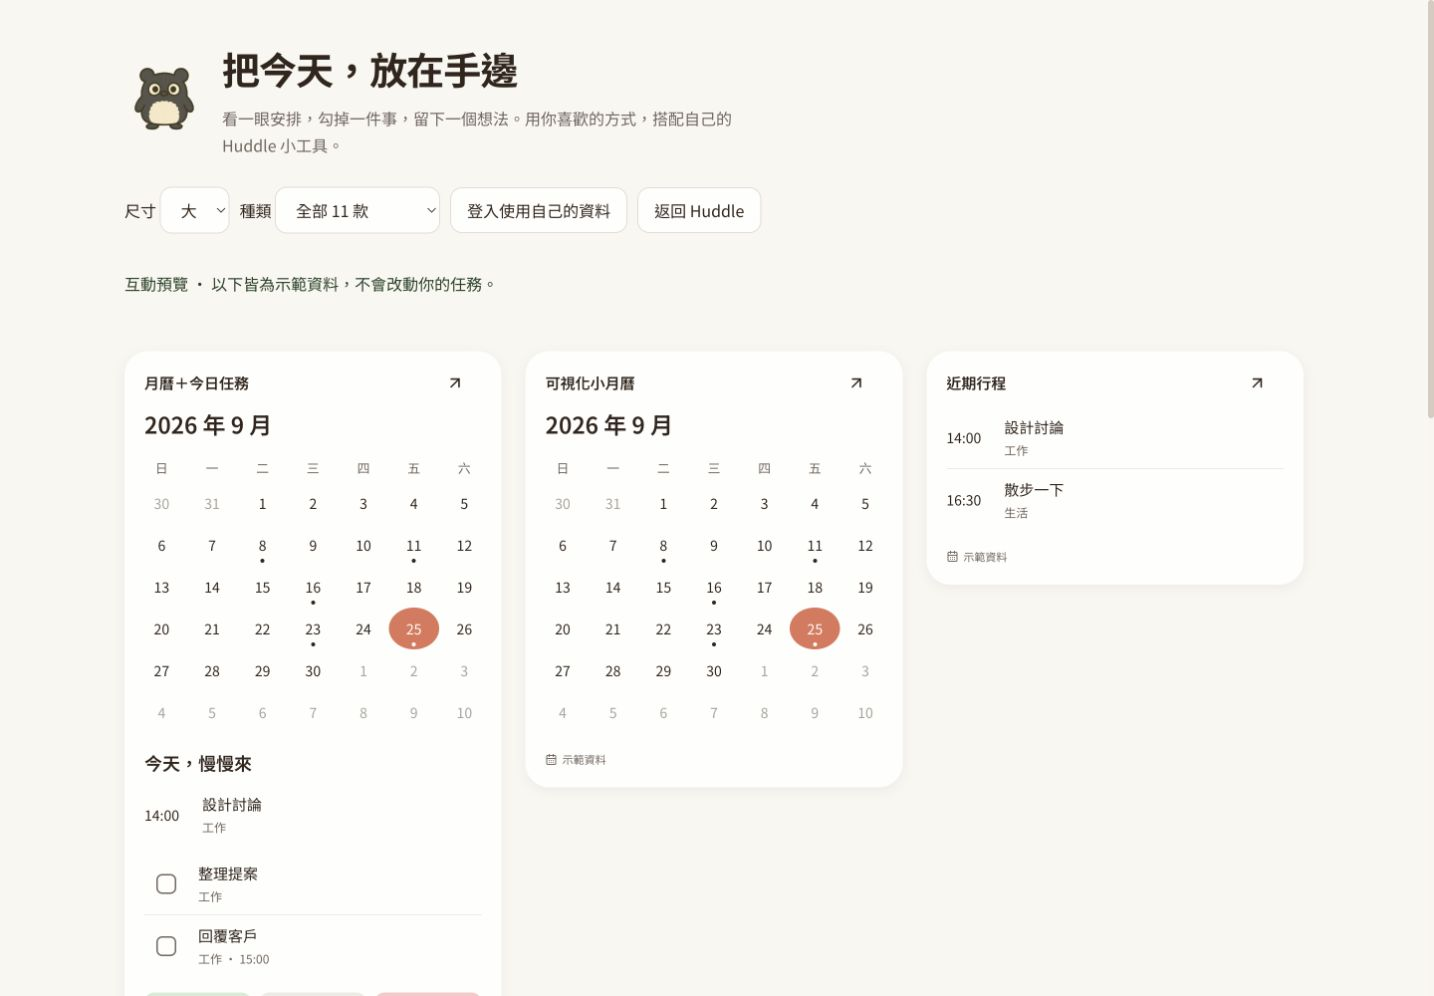
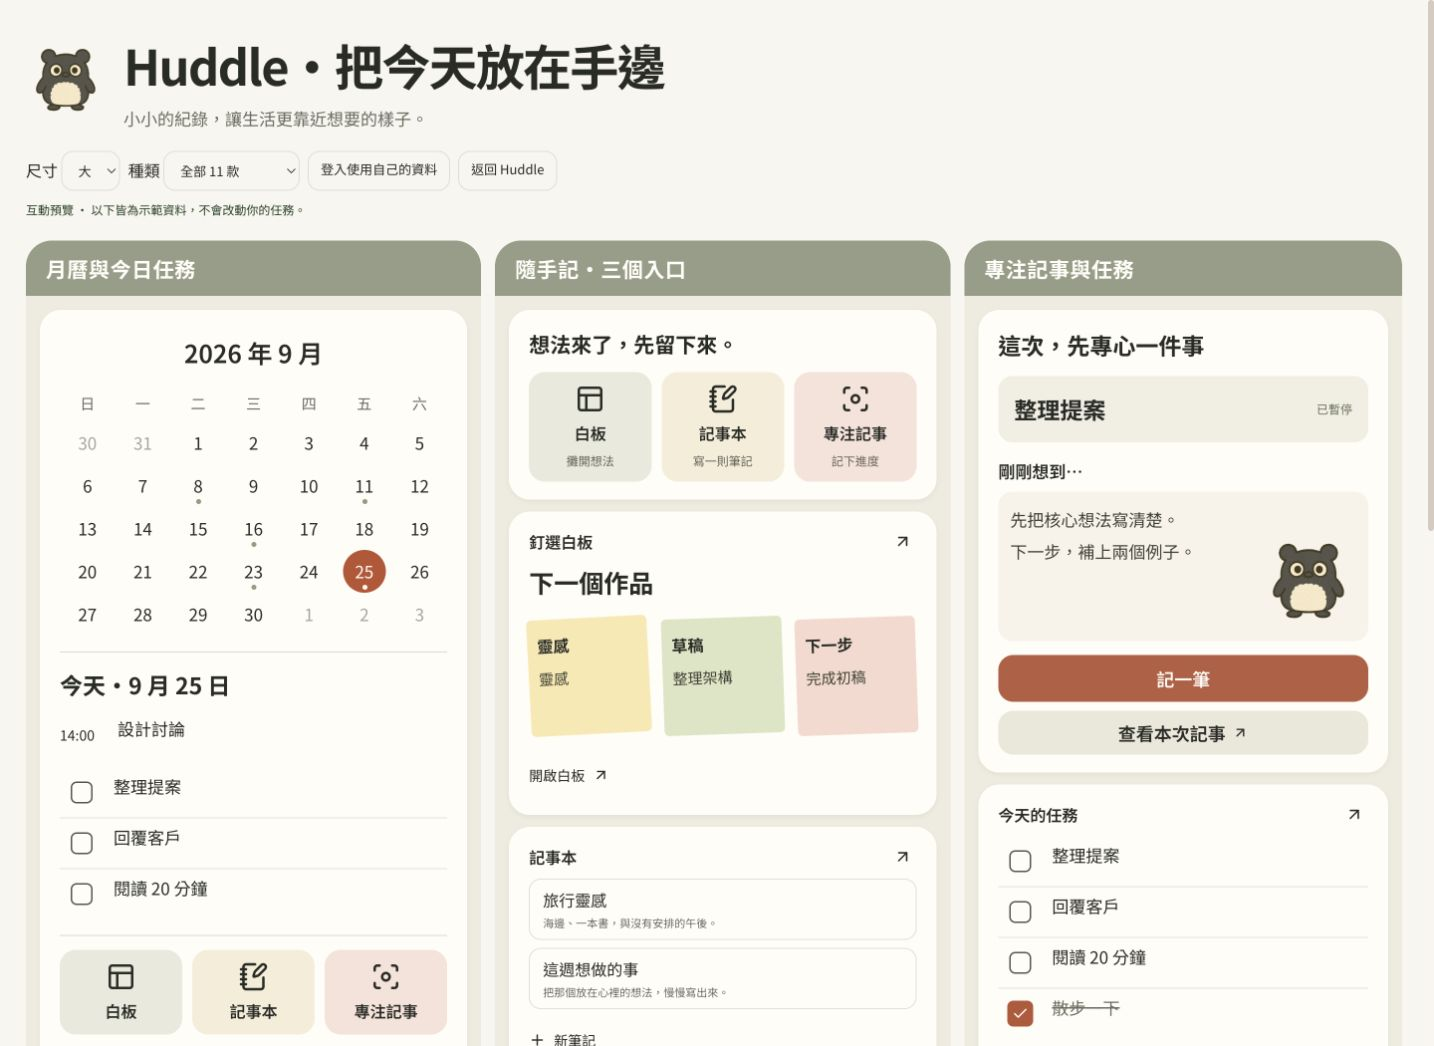
fix(widgets): restore approved grouped composition and paper details

diff --git a/components/widgets/widget-card.tsx b/components/widgets/widget-card.tsx
@@ -7,22 +7,22 @@ import styles from './widgets.module.css'
 export interface WidgetCardProps {kind:WidgetKind;data:WidgetSnapshot;size:'small'|'medium'|'large';onOpen:(kind:WidgetKind,id?:string,date?:string)=>void;onComplete:(id:string)=>void;onAction:(action:string)=>void}
 export function WidgetCard({kind,data,size,onOpen,onComplete,onAction}:WidgetCardProps) {
   const limit=size==='small'?2:size==='medium'?3:5
-  const shortcuts=<div className={styles.shortcuts}>{([{kind:'whiteboard',Icon:PanelsTopLeft},{kind:'notebook',Icon:NotebookPen},{kind:'focus-note',Icon:Focus}] as const).map(({kind:k,Icon})=><button key={k} onClick={()=>onOpen(k)}><Icon size={21}/><span>{widgetNames[k]}</span></button>)}</div>
+  const shortcuts=<div className={styles.shortcuts}>{([{kind:'whiteboard',Icon:PanelsTopLeft},{kind:'notebook',Icon:NotebookPen},{kind:'focus-note',Icon:Focus}] as const).map(({kind:k,Icon})=><button key={k} onClick={()=>onOpen(k)}><Icon size={30}/><span>{widgetNames[k]}</span>{kind==='shortcuts'&&<small>{k==='whiteboard'?'攤開想法':k==='notebook'?'寫一則筆記':'記下進度'}</small>}</button>)}</div>
   const rows=(items:WidgetItem[],tasks=false)=> <div className={styles.rows}>{items.length?items.slice(0,limit).map(item=><div className={styles.row} key={`${item.id}-${item.date}`}>
     {tasks?<button className={styles.check} aria-label={`${item.completed?'取消完成':'完成'} ${item.title}`} aria-pressed={!!item.completed} onClick={()=>item.actionable?onComplete(item.id):onOpen('tasks',item.id)}>{item.completed?<Check size={17}/>:<span/>}</button>:item.time?<time>{item.time}</time>:null}
     <button className={styles.rowText} onClick={()=>onOpen(kind,item.id,item.date)}><span className={item.completed?styles.done:''}>{item.title}</span><small>{item.subtitle}</small></button>
   </div>):<p className={styles.empty}>這裡還有空間，慢慢安排。</p>}</div>
-  const calendar=<><div className={styles.monthTitle}>{Number(data.today.slice(0,4))} 年 {Number(data.today.slice(5,7))} 月</div><div className={styles.calendar}>{['日','一','二','三','四','五','六'].map(d=><small key={d}>{d}</small>)}{data.days.map(day=><button key={day.date} className={`${day.inMonth?'':styles.outside} ${day.date===data.today?styles.today:''}`} aria-label={`${day.date}，${day.count} 個安排`} onClick={()=>onOpen('calendar',undefined,day.date)}><span>{day.day}</span>{day.count>0&&<i/>}</button>)}</div></>
+  const calendar=<><div className={styles.monthTitle}>{Number(data.today.slice(0,4))} 年 {Number(data.today.slice(5,7))} 月</div><div className={styles.calendar}>{['日','一','二','三','四','五','六'].map(d=><small key={d}>{d}</small>)}{data.days.slice(0, data.days.slice(35).some(d=>d.inMonth)?42:35).map(day=><button key={day.date} className={`${day.inMonth?'':styles.outside} ${day.date===data.today?styles.today:''}`} aria-label={`${day.date}，${day.count} 個安排`} onClick={()=>onOpen('calendar',undefined,day.date)}><span>{day.day}</span>{day.count>0&&<i/>}</button>)}</div></>
   return <article className={`${styles.widget} ${styles[size]}`} data-widget={kind}>
-    <header><h2>{widgetNames[kind]}</h2><button aria-label={`開啟${widgetNames[kind]}`} onClick={()=>onOpen(kind)}><ArrowUpRight size={19}/></button></header>
+    <header><h2>{kind==='whiteboard'?'釘選白板':kind==='tasks'?'今天的任務':widgetNames[kind]}</h2><button aria-label={`開啟${widgetNames[kind]}`} onClick={()=>onOpen(kind)}><ArrowUpRight size={19}/></button></header>
     {(kind==='calendar'||kind==='overview')&&calendar}
-    {kind==='overview'&&<><h3>今天，慢慢來</h3>{rows(data.agenda.slice(0,1))}{rows(data.tasks.slice(0,2),true)}{size!=='small'&&shortcuts}</>}
+    {kind==='overview'&&<><h3 className={styles.todayTitle}>今天・{Number(data.today.slice(5,7))} 月 {Number(data.today.slice(8,10))} 日</h3>{rows(data.agenda.slice(0,1))}{rows(data.tasks.filter(t=>!t.completed).slice(0,3),true)}{size!=='small'&&shortcuts}</>}
     {kind==='agenda'&&rows(data.agenda)}
     {(kind==='tasks'||kind==='top-three')&&<>{rows(kind==='top-three'?data.tasks.filter(t=>!t.completed).slice(0,3):data.tasks,true)}<button className={styles.textButton} onClick={()=>onAction('new-task')}><Plus size={17}/>新增任務</button></>}
-    {kind==='shortcuts'&&<><p>想法來了，先留下來。</p>{shortcuts}</>}
-    {kind==='whiteboard'&&<><div className={styles.boardPreview}>{data.boards[0]?<><h3>{data.boards[0].title}</h3>{data.boards[0].thumbnail&&<Image src={data.boards[0].thumbnail} alt="白板摘要預覽" width={480} height={240} className={styles.thumbnail}/>}<p>{data.boards[0].subtitle||'打開白板，繼續放上你的想法。'}</p></>:<p>攤開想法，從一個念頭開始。</p>}</div><button className={styles.textButton} onClick={()=>onOpen('whiteboard',data.boards[0]?.id,data.boards[0]?.date)}>開啟白板 <ArrowUpRight size={17}/></button></>}
+    {kind==='shortcuts'&&<><h3>想法來了，先留下來。</h3>{shortcuts}</>}
+    {kind==='whiteboard'&&<><div className={styles.boardPreview}>{data.boards[0]?<><h3>{data.boards[0].title}</h3>{data.boards[0].thumbnail&&<Image src={data.boards[0].thumbnail} alt="白板摘要預覽" width={480} height={240} className={styles.thumbnail}/>}{!data.boards[0].thumbnail&&<div className={styles.stickies}>{(data.boards[0].subtitle||'從一個念頭開始').split(' · ').slice(0,3).map((text,i)=><div className={styles.sticky} key={i}><small>{['靈感','草稿','下一步'][i]}</small><p>{text}</p></div>)}</div>}</>:<p>攤開想法，從一個念頭開始。</p>}</div><button className={styles.textButton} onClick={()=>onOpen('whiteboard',data.boards[0]?.id,data.boards[0]?.date)}>開啟白板 <ArrowUpRight size={17}/></button></>}
     {kind==='notebook'&&<>{rows(data.notes)}<button className={styles.textButton} onClick={()=>onAction('new-note')}><Plus size={17}/>新筆記</button></>}
-    {kind==='focus-note'&&<><h3>{data.focus.title}</h3><p className={styles.excerpt}>{data.focus.note||'把這次專注的想法，先記下來。'}</p><div className={styles.noteAction}><button className={styles.primary} onClick={()=>onOpen('focus-note')}>記一筆</button><HuddleMascot className="h-16 w-16"/></div></>}
+    {kind==='focus-note'&&<><h3>這次，先專心一件事</h3><div className={styles.focusSubject}><strong>{data.focus.title}</strong><span>{data.focus.state==='running'?'專注中':data.focus.state==='paused'?'已暫停':'準備開始'}</span></div><h4>剛剛想到…</h4><div className={styles.notePaper}><p className={styles.excerpt}>{data.focus.note||'把這次專注的想法，先記下來。'}</p><HuddleMascot className="h-24 w-24"/></div><div className={styles.noteAction}><button className={styles.primary} onClick={()=>onOpen('focus-note')}>記一筆</button><button className={styles.secondaryAction} onClick={()=>onOpen('focus-note')}>查看本次記事 <ArrowUpRight size={16}/></button></div></>}
     {kind==='focus'&&<><p>{data.focus.title}</p><div className={styles.timer}>{String(Math.floor(data.focus.seconds/60)).padStart(2,'0')}:{String(data.focus.seconds%60).padStart(2,'0')}</div><div className={styles.actions}><button className={styles.primary} onClick={()=>onAction(data.focus.state==='running'?'pause':data.focus.state==='paused'?'resume':'start')}>{data.focus.state==='running'?<Pause size={17}/>:<Play size={17}/>} {data.focus.state==='running'?'暫停':data.focus.state==='paused'?'繼續':'開始專注'}</button>{data.focus.state!=='idle'&&<button aria-label="結束專注" onClick={()=>onAction('stop')}><Square size={18}/></button>}</div></>}
     {kind==='water'&&<><Droplets className={styles.waterIcon} size={32}/><h3>喝口水，休息一下</h3><p>{data.water.enabled?'照自己的步調，補充一點水。':'提醒尚未開啟'}</p><div className={styles.actions}><button className={styles.primary} onClick={()=>onAction('water')}>喝了</button><button onClick={()=>onAction('snooze')}>稍後提醒</button></div></>}
     <footer><CalendarDays size={12}/><span>{data.accountId==='demo'?'示範資料':`更新 ${new Date(data.generatedAt).toLocaleTimeString('zh-TW',{hour:'2-digit',minute:'2-digit'})}`}</span></footer>

diff --git a/components/widgets/widgets.module.css b/components/widgets/widgets.module.css
@@ -10,3 +10,12 @@
 @media(max-width:1000px){.grid{grid-template-columns:repeat(2,minmax(0,1fr))}}@media(max-width:640px){.page{padding:24px 16px 60px}.heading{align-items:flex-start;gap:10px}.heading h1{font-size:26px}.grid{grid-template-columns:1fr;gap:18px}.widget{padding:20px}.small{max-width:280px}.toolbar{gap:8px}.heading p{font-size:14px}.calendar button{min-height:44px}}
 
 .thumbnail{width:100%;height:auto;border-radius:12px;margin-top:12px}
+/* Approved composition: three distinct collections on warm paper. */
+.page{max-width:1500px;background:#f8f6ef;color:#292b25;padding:28px 26px 64px;--card:#fffdf7;--foreground:#292b25;--muted-foreground:#6c6c60;--primary:#b95536;--primary-foreground:#fffdf7;--secondary:#e8eadc;--border:#dfded3;--border-subtle:#e5e1d7}
+.heading{margin-bottom:18px;gap:18px}.heading h1{font-size:clamp(28px,3.4vw,49px);font-weight:750;letter-spacing:-.035em}.heading p{font-size:17px;margin-top:3px}.toolbar{margin-bottom:0;gap:8px}.toolbar select,.toolbar button,.toolbar a{min-height:40px;padding:7px 12px;font-size:13px;background:transparent}.notice{font-size:12px;min-height:0;padding:10px 0}.notice:empty{display:none}
+.composition{display:grid;grid-template-columns:1.04fr 1.04fr 1fr;gap:14px;margin-top:12px;align-items:stretch}.collection{background:#eeebdf;border-radius:26px;overflow:hidden;min-width:0}.collectionTitle{font-size:21px;font-weight:650;background:#969d88;color:#fffdf7;padding:12px 20px;letter-spacing:.025em}.stack{display:flex;flex-direction:column;gap:12px;padding:14px}.stack .widget{width:100%;max-width:none}.widget{background:#fffdf7;padding:18px 20px;border-radius:21px;box-shadow:0 2px 5px #514d3712}.widget header{margin-bottom:10px}.widget h2{font-size:16px}.widget h3{font-size:23px;font-weight:650}.widget header>button{display:grid;place-items:center}.widget footer{margin-top:8px;font-size:10px}.composition .widget footer{display:none}.composition .widget[data-widget=overview]{flex:1}.composition .collection:first-child .stack{height:calc(100% - 55px)}
+.widget[data-widget=overview]>header,.widget[data-widget=shortcuts]>header,.widget[data-widget=focus-note]>header{display:none}.monthTitle{text-align:center;font-size:25px;padding:6px 0;margin-bottom:8px}.calendar{margin:0 0 16px}.calendar small{font-size:15px;padding:7px 0}.calendar button{min-height:43px;font-size:17px}.calendar .today{background:#bd5131;border-radius:50%;max-width:43px;width:100%;justify-self:center}.calendar i{background:#929c7e;width:5px;height:5px;bottom:3px}.calendar .today i{background:#fff8eb}.todayTitle{border-top:1px solid #dedacf;padding-top:15px;margin-top:14px}.row{padding:3px 0}.rowText span{font-size:17px}.rowText small{font-size:11px}.check>span{border:1.5px solid #525849;width:22px;height:22px}.check[aria-pressed=true]{background:#b95536;color:white;min-width:26px;min-height:26px;margin:9px;border-radius:6px}.widget[data-widget=overview] .rowText small,.widget[data-widget=tasks] .rowText small{display:none}.widget[data-widget=overview] .rows:first-of-type .row{background:#f2eee3;border-radius:14px;padding-inline:10px}.shortcuts{gap:10px;border-top:1px solid #dedacf;padding-top:14px}.shortcuts button{background:#e8eadb;padding:12px 4px;gap:7px;font-size:16px;font-weight:600;border-radius:16px}.shortcuts button:nth-child(2){background:#f5ecd8}.shortcuts button:nth-child(3){background:#f7e2d9}.shortcuts small{font-size:12px;font-weight:400;color:#666457}.widget[data-widget=shortcuts] .shortcuts{border:0;padding:0;margin-top:13px}.widget[data-widget=shortcuts] h3{font-size:21px}
+.boardPreview{padding:0;min-height:0}.boardPreview h3{font-size:25px;margin:0 0 14px}.stickies{display:flex;gap:13px;padding:3px 0 10px}.sticky{flex:1;min-width:0;background:#fae8ae;padding:14px 10px;min-height:117px;border-radius:5px;transform:rotate(-3deg)}.sticky:nth-child(2){background:#dce4c3;transform:rotate(-2deg)}.sticky:nth-child(3){background:#f7d9ce;transform:rotate(-2deg)}.sticky small{font-size:16px;font-weight:650}.sticky p{font-size:15px;color:#414334;margin-top:9px;line-height:1.65}.textButton{padding-left:0;margin-top:9px}.widget[data-widget=notebook] .row{border:1px solid #e3dfd3;border-radius:12px;margin-bottom:8px;padding:5px 8px}.widget[data-widget=notebook] .rowText span{font-size:16px}.widget[data-widget=notebook] .rowText small{white-space:nowrap;overflow:hidden;text-overflow:ellipsis;max-width:100%}
+.focusSubject{display:flex;align-items:center;justify-content:space-between;gap:8px;background:#f1eee3;border-radius:14px;margin:14px 0;padding:16px}.focusSubject strong{font-size:23px}.focusSubject span{font-size:12px;color:#687357;white-space:nowrap}.widget h4{font-size:17px;font-weight:600;margin:16px 0 8px}.notePaper{display:flex;background:#f7f3ea;border-radius:14px;min-height:150px;padding:12px;align-items:flex-end;gap:5px}.notePaper .excerpt{margin:0;align-self:flex-start;flex:1;font-size:17px;line-height:1.9;color:#414334}.notePaper>div{flex-shrink:0}.noteAction{display:flex;flex-direction:column;gap:9px;margin-top:14px}.noteAction button{width:100%;font-size:18px;font-weight:600;border-radius:15px}.secondaryAction{display:flex;align-items:center;justify-content:center;gap:7px;background:#eae7da}.primary{background:#b95c40!important}.moreTitle{font-size:23px;font-weight:650;margin:36px 0 18px}.grid{gap:18px}.hint{font-size:12px}
+@media(max-width:1100px) and (min-width:741px){.page{padding:24px 16px}.composition{gap:10px}.stack{padding:10px}.widget{padding:14px}.collectionTitle{font-size:17px;padding:12px}.shortcuts button{font-size:13px}.shortcuts small{font-size:10px}.focusSubject{padding:12px}.focusSubject strong{font-size:19px}.notePaper{flex-wrap:wrap}.calendar button{font-size:15px}.stickies{gap:8px}.sticky{padding:10px 7px}.sticky p{font-size:13px}}
+@media(max-width:740px){.page{padding:22px 12px 48px}.heading{gap:10px}.heading h1{font-size:29px;line-height:1.3}.heading p{font-size:14px}.composition{grid-template-columns:1fr;gap:22px}.collectionTitle{font-size:21px}.stack{padding:12px}.widget{padding:18px}.grid{grid-template-columns:1fr}.calendar button{min-height:44px}.collection:first-child .stack{height:auto!important}.toolbar a{font-size:12px}.notice{line-height:1.6}.small{max-width:none}.heading>div:first-child{flex-shrink:0}}

diff --git a/components/widgets/widget-gallery.tsx b/components/widgets/widget-gallery.tsx
@@ -35,11 +35,11 @@ function GalleryFrame({data,onOpen,onComplete,onAction,live=false,onMode,childre
         FIRST VIEWPORT: Brand at left; size controls above independent native-shaped widgets.
         FORM: User-approved widget collection, expanded with all accepted functions.
         FINISH: unreviewed and undocumented is unfinished; this build ends with the finish review, the verdict, and DESIGN.md */}
-    <div className={styles.heading}><HuddleMascot className="h-20 w-20"/><div><h1>把今天，放在手邊</h1><p>看一眼安排，勾掉一件事，留下一個想法。用你喜歡的方式，搭配自己的 Huddle 小工具。</p></div></div>
+    <div className={styles.heading}><HuddleMascot className="h-20 w-20"/><div><h1>Huddle・把今天放在手邊</h1><p>小小的紀錄，讓生活更靠近想要的樣子。</p></div></div>
     <div className={styles.toolbar}><label>尺寸 <select aria-label="小工具尺寸" value={size} onChange={e=>setSize(e.target.value as typeof size)}><option value="small">小</option><option value="medium">中</option><option value="large">大</option></select></label><label>種類 <select aria-label="小工具種類" value={filter} onChange={e=>setFilter(e.target.value)}><option value="all">全部 11 款</option>{widgetKinds.map(k=><option key={k} value={k}>{widgetNames[k]}</option>)}</select></label>{onMode?<button onClick={onMode}>{live?'查看示範':'使用我的資料'}</button>:<Link href="/login">登入使用自己的資料</Link>}<Link href="/">返回 Huddle</Link></div>
     <p className={styles.notice}>{live?'目前使用你的資料；內容編輯會儲存至原本的工作區。':'互動預覽 · 以下皆為示範資料，不會改動你的任務。'}</p>
     {children}
-    <div className={styles.grid}>{widgetKinds.filter(k=>filter==='all'||filter===k).map(kind=><WidgetCard key={kind} kind={kind} data={data} size={size} onOpen={onOpen} onComplete={onComplete} onAction={onAction}/>)}</div>
+    {filter==='all'?<><div className={styles.composition}>{([{title:'月曆與今日任務',kinds:['overview']},{title:'隨手記・三個入口',kinds:['shortcuts','whiteboard','notebook']},{title:'專注記事與任務',kinds:['focus-note','tasks']}] as {title:string;kinds:WidgetKind[]}[]).map(group=><section className={styles.collection} key={group.title}><h2 className={styles.collectionTitle}>{group.title}</h2><div className={styles.stack}>{group.kinds.map(kind=><WidgetCard key={kind} kind={kind} data={data} size={size} onOpen={onOpen} onComplete={onComplete} onAction={onAction}/>)}</div></section>)}</div><h2 className={styles.moreTitle}>更多陪你安排日常的小工具</h2><div className={styles.grid}>{(['calendar','agenda','top-three','focus','water'] as WidgetKind[]).map(kind=><WidgetCard key={kind} kind={kind} data={data} size={size} onOpen={onOpen} onComplete={onComplete} onAction={onAction}/>)}</div></>:<div className={styles.grid}><WidgetCard kind={filter as WidgetKind} data={data} size={size} onOpen={onOpen} onComplete={onComplete} onAction={onAction}/></div>}
     <p className={styles.hint}>這是小工具的互動預覽與設定入口。手機主畫面需要安裝含原生小工具的 Huddle App，再長按主畫面加入。內容更新受系統排程影響；筆記與白板的完整編輯會在 App 中開啟。鎖定畫面只顯示安全摘要。</p>
   </main>
 }

diff --git a/docs/native/mobile-widgets.md b/docs/native/mobile-widgets.md
@@ -58,3 +58,7 @@ cd android && ./gradlew assembleDebug
 - 沒有推送、發布、修改正式資料或接受 Google SDK 授權。
 
 預覽：`http://127.0.0.1:4318/widgets/`（這台電腦的本機服務）。截圖：`widget-preview/mobile.png`、`widget-preview/desktop.png`。
+
+## 設計還原修正
+
+依使用者反映，將等寬卡片清單改回核准設計圖的三組構圖：月曆與今日任務／隨手記、白板、記事本／專注記事與任務。補回鼠尾草標題帶、暖米紙面、彩色便條與全寬記事動作；其餘五款保留於下方。原版角色未更換。1440px與390px皆無水平溢出，11款仍存在，專注記事入口可操作。Web fidelity review通過；仍有月曆翻月箭頭與白板連接箭頭的細節差異，原生未納入此次視覺修正。
